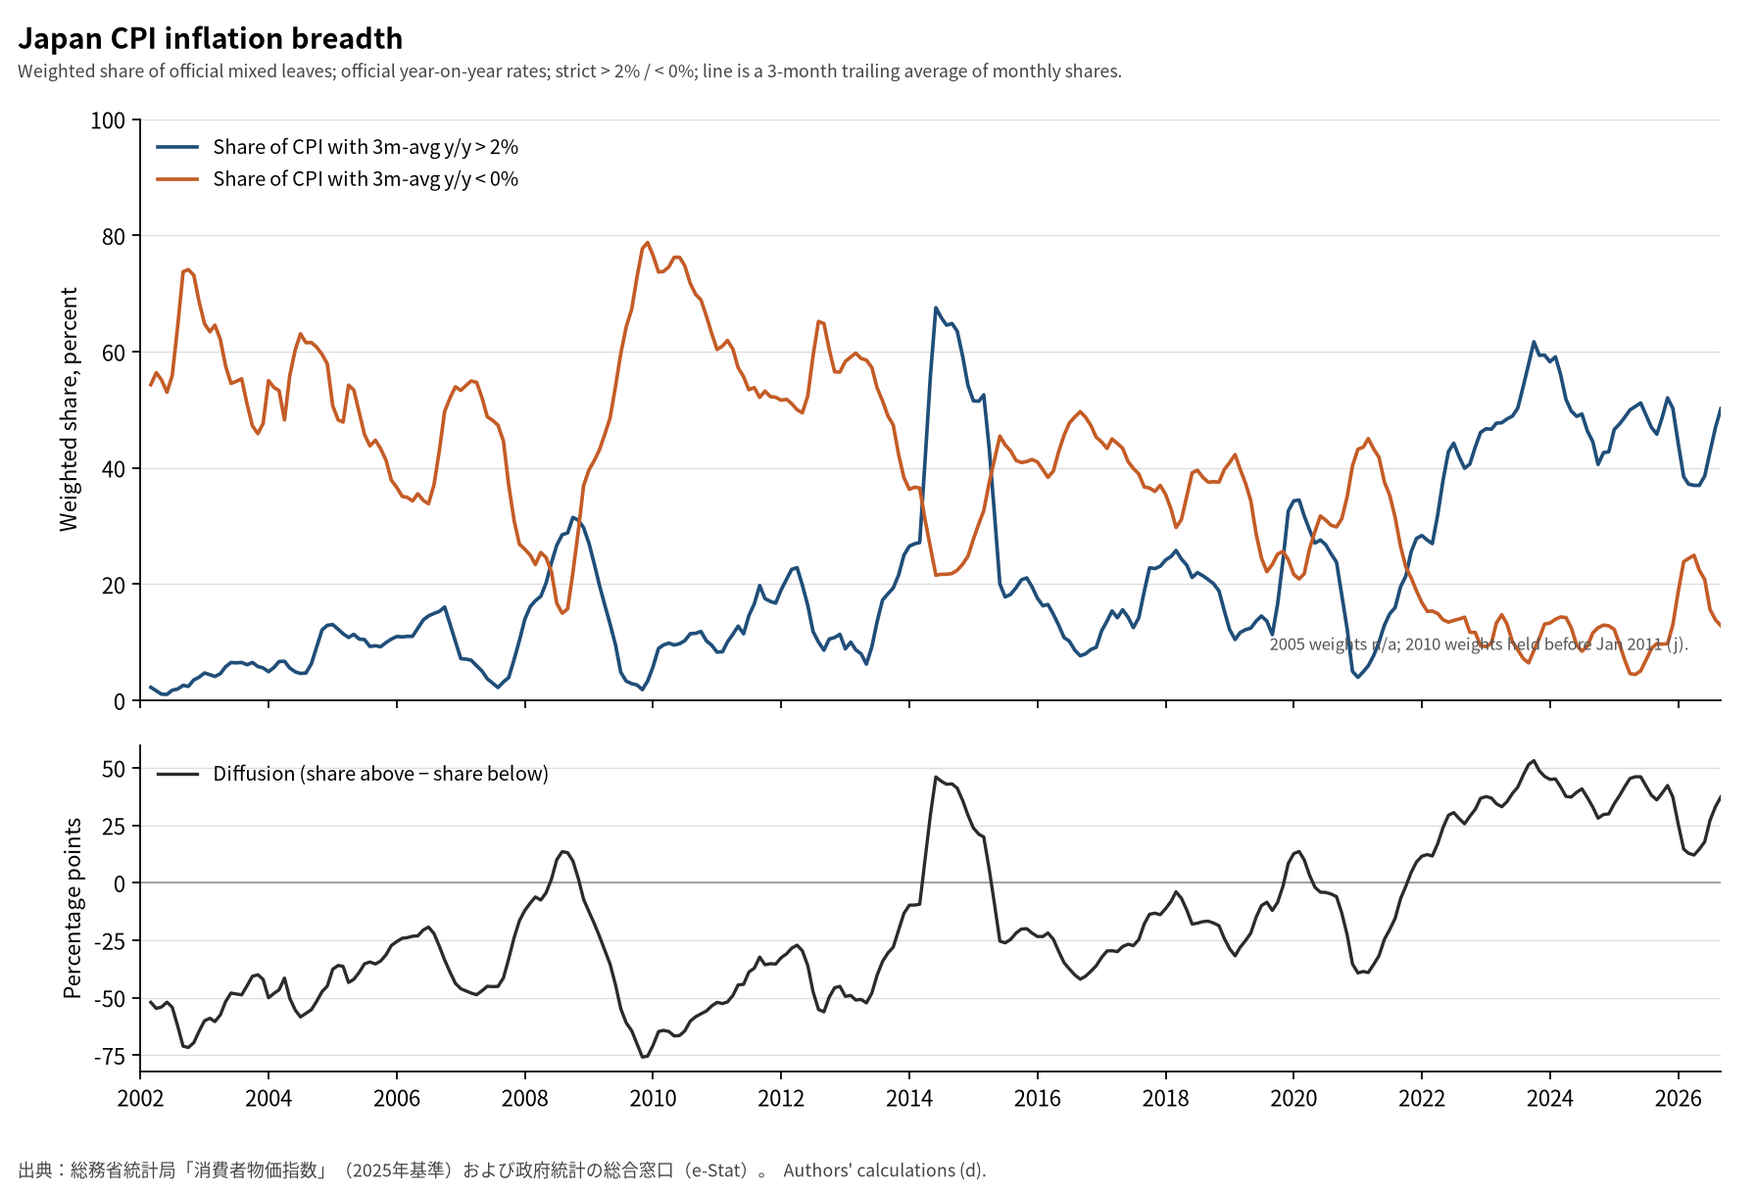
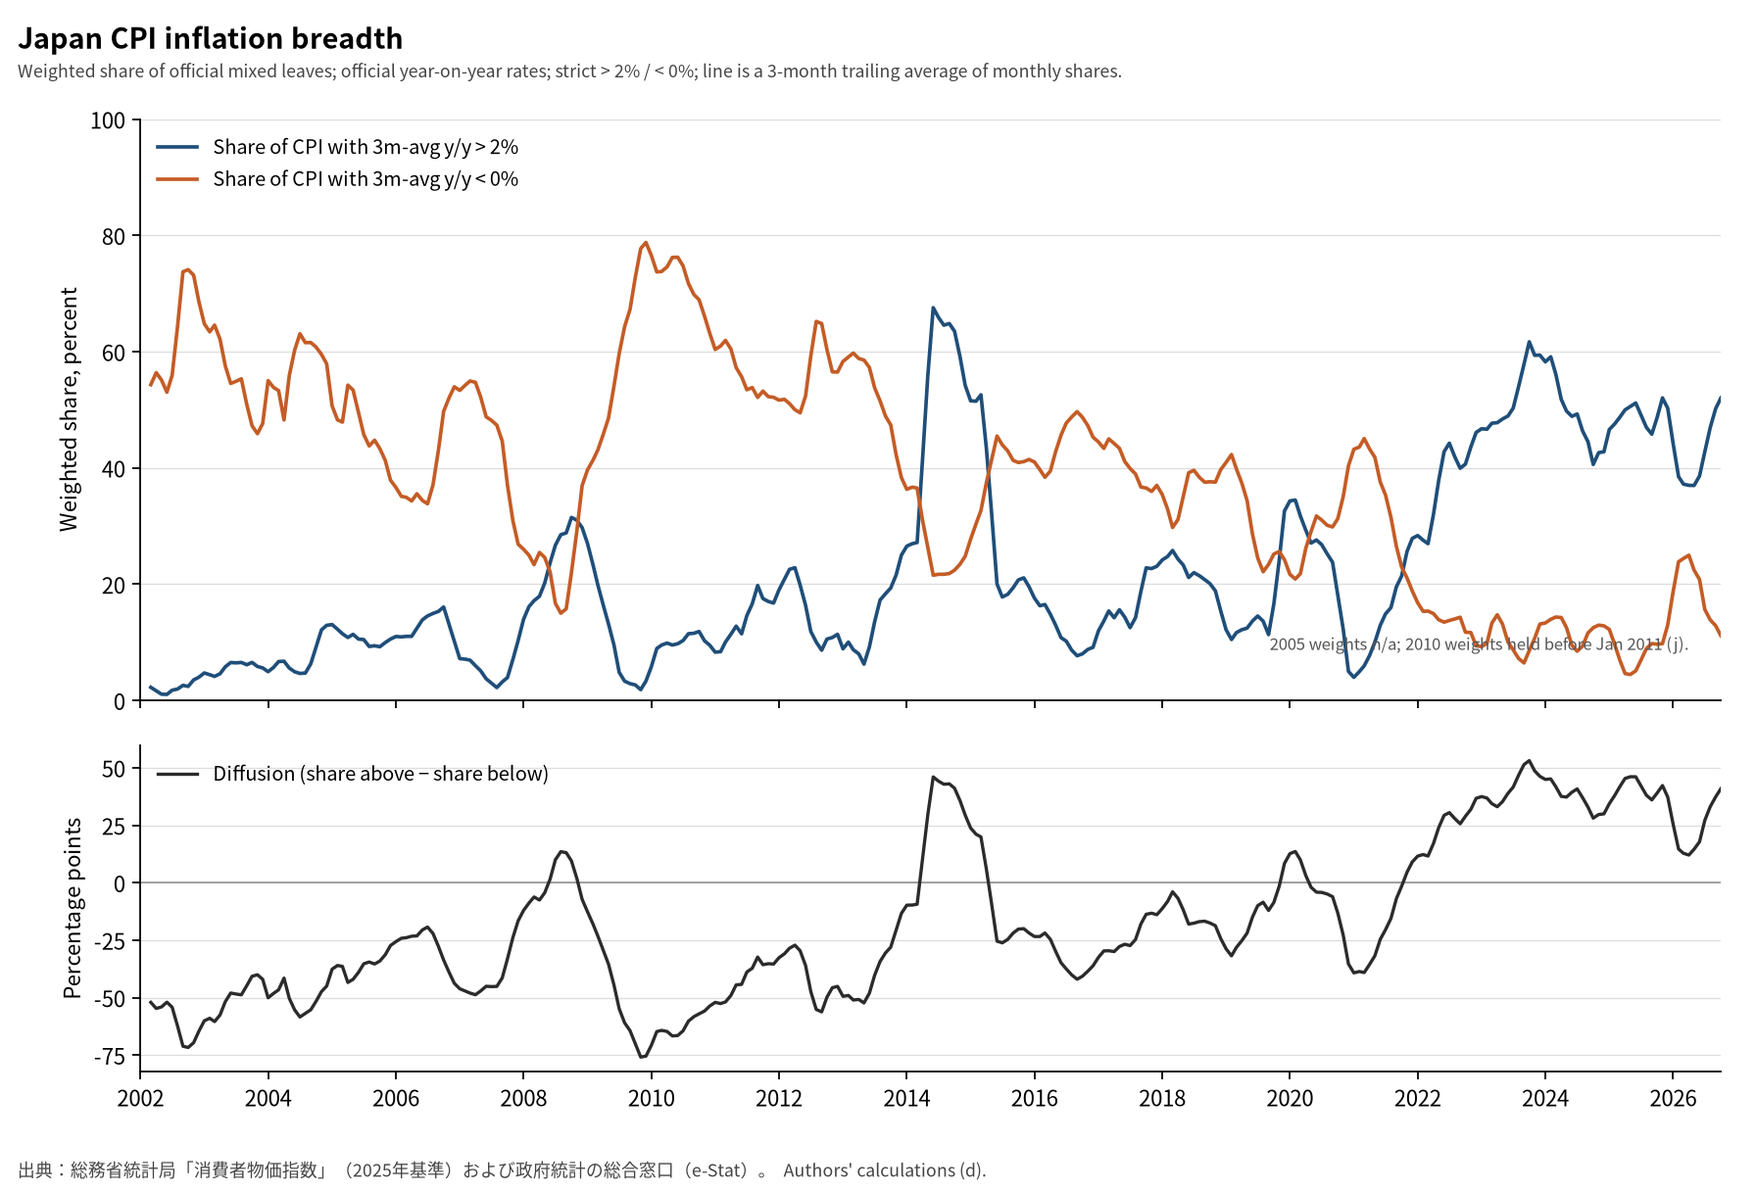
Refresh inflation breadth for the UK, Japan, euro area, and the Fed comparison. (#64)
Replace the supplied staff pages and breadth files and leave every other path unchanged.

diff --git a/staff-ecb/index.html b/staff-ecb/index.html
@@ -437,20 +437,20 @@ footer{margin:10px 0 48px}
     <div class="br-grid">
     <div class="card br-card" id="breadth-ea">
       <h3>Euro area HICP: inflation breadth</h3>
-      <div class="sub">Share of the basket with 12-month inflation above / below threshold · latest 2026-09</div>
-      <div class="br-kpis"><div class="br-kpi"><span class="l">Share above 3%</span><span class="v">42.1% <span class="q d">(d)</span></span></div><div class="br-kpi"><span class="l">Share below 1%</span><span class="v">27.7% <span class="q d">(d)</span></span></div><div class="br-kpi"><span class="l">Diffusion</span><span class="v">+14.4 pp <span class="q d">(d)</span></span><span class="s">above − below</span></div><div class="br-kpi"><span class="l">z vs 2011–19</span><span class="v">+1.72 <span class="q d">(d)</span></span><span class="s">diffusion</span></div><div class="br-kpi"><span class="l">Components</span><span class="v">275 / 275</span><span class="s">used / target</span></div><div class="br-kpi"><span class="l">Data date</span><span class="v">2026-09</span><span class="s">monthly</span></div></div>
+      <div class="sub">Share of the basket with 12-month inflation above / below threshold · latest 2026-10</div>
+      <div class="br-kpis"><div class="br-kpi"><span class="l">Share above 3%</span><span class="v">42.5% <span class="q d">(d)</span></span></div><div class="br-kpi"><span class="l">Share below 1%</span><span class="v">31.3% <span class="q d">(d)</span></span></div><div class="br-kpi"><span class="l">Diffusion</span><span class="v">+11.2 pp <span class="q d">(d)</span></span><span class="s">above − below</span></div><div class="br-kpi"><span class="l">z vs 2011–19</span><span class="v">+1.58 <span class="q d">(d)</span></span><span class="s">diffusion</span></div><div class="br-kpi"><span class="l">Components</span><span class="v">275 / 275</span><span class="s">used / target</span></div><div class="br-kpi"><span class="l">Data date</span><span class="v">2026-10</span><span class="s">monthly</span></div></div>
       <div class="br-body">
         <div class="br-media"><a href="breadth/ea_hicp_inflation_breadth.png" target="_blank" rel="noopener"><img class="br-img" src="breadth/ea_hicp_inflation_breadth.png" alt="Euro area HICP inflation breadth: share of components above and below threshold, and diffusion" width="1792" height="1216" loading="lazy"></a></div>
         <div class="br-side">
           <div class="br-text"><p><b>Thresholds:</b> strict &gt; 3% / &lt; 1%.</p>
-<p><b>Breaks and sample notes:</b> Unspliced classification breaks in December 2017 (ECOICOP 4-digit to 5-digit) and January 2026 (ECOICOP version 2). October 2026 is a flash estimate with no component data, so the latest complete month is September 2026. Games of chance (CP09470) are dropped until an official year-on-year rate exists.</p>
+<p><b>Breaks and sample notes:</b> Unspliced classification breaks in December 2017 (ECOICOP 4-digit to 5-digit) and January 2026 (ECOICOP version 2). Games of chance (CP09470) are dropped until an official year-on-year rate exists.</p>
 <p><b>Method (d):</b> Weighted share of official finest HICP leaves (changing-composition euro area, NSA official RCH_A rates and official weights), renormalised each month over leaves with a published rate and a positive weight. Classification vintages are not spliced.</p>
 <p>Shares, diffusion and the z-score are authors' calculations (d) from official linked NSA indexes and official basket weights (V), renormalised each period over items with a published rate and a strictly positive weight. Thresholds are strict (<code>&gt;</code> / <code>&lt;</code>). This is a research prototype, not a sealed nowcast and not a trade input.</p></div>
           <div class="br-credit"><p>Source acknowledgement: Source: Eurostat, datasets PRC_HICP_MANR, PRC_HICP_MIDX, PRC_HICP_INW, PRC_HICP_MINR and PRC_HICP_IW (geo=EA, changing-composition euro area), the HICP ESMS (<code>prc_hicp_esms</code>), the information note <code>Info_note_HICP_COICOP18_20260128</code>, and “Questions &amp; Answers on the improvements in the Harmonised Index of Consumer Prices (HICP) effective January 2026” (25 February 2026, updated 3 March 2026).</p>
 <p>Required adapted-work statement:</p>
 <p>Adapted from Eurostat, datasets PRC_HICP_MANR, PRC_HICP_MIDX, PRC_HICP_INW, PRC_HICP_MINR and PRC_HICP_IW (geo=EA), and from the HICP ESMS, the January 2026 ECOICOP ver. 2 information note and the Questions &amp; Answers on the improvements in the HICP (25 February 2026, updated 3 March 2026). This is not an official Eurostat product. Eurostat is not responsible or liable for any consequences arising from the reuse, or for any conclusions drawn from these adapted files.</p>
 <p>Licence: Commission Decision 2011/833/EU. Copyright notice: <a href="https://ec.europa.eu/eurostat/web/main/help/copyright-notice" target="_blank" rel="noopener">https://ec.europa.eu/eurostat/web/main/help/copyright-notice</a></p>
-<p>Verified against: <code>/docs/LICENCE.md</code> in snapshot <code>20261113T191620Z_breadth_ea</code>.</p></div>
+<p>Verified against: <code>/docs/LICENCE.md</code> in snapshot <code>20261123T075245Z_breadth_ea</code>.</p></div>
         </div>
       </div>
     </div>
@@ -459,7 +459,7 @@ footer{margin:10px 0 48px}
       <h4>⚠ Data and sources – caveats (inflation breadth)</h4>
       <p>This is a research prototype. It is not sealed and is not a trade input. Official indexes and weights are <b>V</b>. Shares, diffusion and z-scores are authors' calculations <b>(d)</b>. Judgement is marked <b>(j)</b>. Unverified items are <b>U</b>. Missing official values are <b>n/a</b>. Nothing here is a recommendation.</p>
 <p>Thresholds are strict greater-than / less-than. Weights are renormalised each period over items with a published rate and a strictly positive weight. The z-score is the latest diffusion minus the 2011–2019 mean, divided by the 2011–2019 standard deviation (d).</p>
-<p>Euro-area series notes: three unspliced classification vintages — ECOICOP 4-digit through November 2017, ECOICOP 5-digit through December 2025, and ECOICOP version 2 from January 2026. The dashed lines on the chart mark December 2017 and January 2026. October 2026 is flash-only (no component data); the latest complete month is September 2026. Games of chance (CP09470, 2026 weight 12.82) have no official year-on-year rate in this snapshot and are dropped (n used / n target 275 / 275 after that drop). geo=EA is the changing-composition euro area.</p>
+<p>Euro-area series notes: three unspliced classification vintages — ECOICOP 4-digit through November 2017, ECOICOP 5-digit through December 2025, and ECOICOP version 2 from January 2026. The dashed lines on the chart mark December 2017 and January 2026. Games of chance (CP09470, 2026 weight 12.82) have no official year-on-year rate in this snapshot and are dropped (n used / n target 275 / 275 after that drop). geo=EA is the changing-composition euro area.</p>
 <p>Licence: Commission Decision 2011/833/EU, credit as in <a href="breadth/credit.md" target="_blank" rel="noopener"><code>credit.md</code></a>, verified against the snapshot licence file.</p>
       <div class="br-files">Latest values: <a href="breadth/latest.csv" target="_blank" rel="noopener">latest.csv</a> · <a href="breadth/latest.json" target="_blank" rel="noopener">latest.json</a></div>
     </div>

diff --git a/staff-boe/index.html b/staff-boe/index.html
@@ -318,8 +318,8 @@ footer{margin:10px 0 48px}
     <div class="br-grid">
     <div class="card br-card" id="breadth-uk">
       <h3>United Kingdom CPI: inflation breadth</h3>
-      <div class="sub">Share of the basket with 12-month inflation above / below threshold · latest 2026-09</div>
-      <div class="br-kpis"><div class="br-kpi"><span class="l">Share above 3%</span><span class="v">53.2% <span class="q d">(d)</span></span></div><div class="br-kpi"><span class="l">Share below 1%</span><span class="v">28.1% <span class="q d">(d)</span></span></div><div class="br-kpi"><span class="l">Diffusion</span><span class="v">+25.1 pp <span class="q d">(d)</span></span><span class="s">above − below</span></div><div class="br-kpi"><span class="l">z vs 2011–19</span><span class="v">+0.93 <span class="q d">(d)</span></span><span class="s">diffusion</span></div><div class="br-kpi"><span class="l">Components</span><span class="v">86 / 86</span><span class="s">used / target</span></div><div class="br-kpi"><span class="l">Data date</span><span class="v">2026-09</span><span class="s">monthly</span></div></div>
+      <div class="sub">Share of the basket with 12-month inflation above / below threshold · latest 2026-10</div>
+      <div class="br-kpis"><div class="br-kpi"><span class="l">Share above 3%</span><span class="v">54.6% <span class="q d">(d)</span></span></div><div class="br-kpi"><span class="l">Share below 1%</span><span class="v">35.5% <span class="q d">(d)</span></span></div><div class="br-kpi"><span class="l">Diffusion</span><span class="v">+19.2 pp <span class="q d">(d)</span></span><span class="s">above − below</span></div><div class="br-kpi"><span class="l">z vs 2011–19</span><span class="v">+0.72 <span class="q d">(d)</span></span><span class="s">diffusion</span></div><div class="br-kpi"><span class="l">Components</span><span class="v">86 / 86</span><span class="s">used / target</span></div><div class="br-kpi"><span class="l">Data date</span><span class="v">2026-10</span><span class="s">monthly</span></div></div>
       <div class="br-body">
         <div class="br-media"><a href="breadth/uk_cpi_inflation_breadth.png" target="_blank" rel="noopener"><img class="br-img" src="breadth/uk_cpi_inflation_breadth.png" alt="United Kingdom CPI inflation breadth: share of components above and below threshold, and diffusion" width="1792" height="1216" loading="lazy"></a></div>
         <div class="br-side">
@@ -330,7 +330,7 @@ footer{margin:10px 0 48px}
           <div class="br-credit"><p>Contains public sector information licensed under the Open Government Licence v3.0. Source: Office for National Statistics.</p>
 <p>Office for National Statistics, Consumer price inflation, detailed reference tables (September 2026 release, published 21 October 2026); Consumer price inflation, updating weights: Annex A, Tables W1 to W3 (2026 edition); Consumer Prices Index (RPI) and Retail Prices Index (RPI), updating weights (2015), Annex D, table W1.</p>
 <p>Licence: Open Government Licence v3.0, <a href="https://www.nationalarchives.gov.uk/doc/open-government-licence/version/3/" target="_blank" rel="noopener">https://www.nationalarchives.gov.uk/doc/open-government-licence/version/3/</a></p>
-<p>Verified against: <code>/docs/LICENCE.md</code> in snapshot <code>20261113T182124Z_breadth_uk</code>. Table 38 is an analytical series, not accredited official statistics.</p></div>
+<p>Verified against: <code>/docs/LICENCE.md</code> in snapshot <code>20261123T075040Z_breadth_uk</code>. Table 38 is an analytical series, not accredited official statistics.</p></div>
         </div>
       </div>
     </div>

diff --git a/staff-boj/index.html b/staff-boj/index.html
@@ -318,8 +318,8 @@ footer{margin:10px 0 48px}
     <div class="br-grid">
     <div class="card br-card" id="breadth-jp">
       <h3>Japan CPI: inflation breadth</h3>
-      <div class="sub">Share of the basket with 12-month inflation above / below threshold · latest 2026-09</div>
-      <div class="br-kpis"><div class="br-kpi"><span class="l">Share above 2%</span><span class="v">50.2% <span class="q d">(d)</span></span></div><div class="br-kpi"><span class="l">Share below 0%</span><span class="v">12.9% <span class="q d">(d)</span></span></div><div class="br-kpi"><span class="l">Diffusion</span><span class="v">+37.3 pp <span class="q d">(d)</span></span><span class="s">above − below</span></div><div class="br-kpi"><span class="l">z vs 2011–19</span><span class="v">+2.47 <span class="q d">(d)</span></span><span class="s">diffusion</span></div><div class="br-kpi"><span class="l">Components</span><span class="v">104 / 104</span><span class="s">used / target</span></div><div class="br-kpi"><span class="l">Data date</span><span class="v">2026-09</span><span class="s">monthly</span></div></div>
+      <div class="sub">Share of the basket with 12-month inflation above / below threshold · latest 2026-10</div>
+      <div class="br-kpis"><div class="br-kpi"><span class="l">Share above 2%</span><span class="v">52.0% <span class="q d">(d)</span></span></div><div class="br-kpi"><span class="l">Share below 0%</span><span class="v">11.1% <span class="q d">(d)</span></span></div><div class="br-kpi"><span class="l">Diffusion</span><span class="v">+40.9 pp <span class="q d">(d)</span></span><span class="s">above − below</span></div><div class="br-kpi"><span class="l">z vs 2011–19</span><span class="v">+2.62 <span class="q d">(d)</span></span><span class="s">diffusion</span></div><div class="br-kpi"><span class="l">Components</span><span class="v">104 / 104</span><span class="s">used / target</span></div><div class="br-kpi"><span class="l">Data date</span><span class="v">2026-10</span><span class="s">monthly</span></div></div>
       <div class="br-body">
         <div class="br-media"><a href="breadth/jp_cpi_inflation_breadth.png" target="_blank" rel="noopener"><img class="br-img" src="breadth/jp_cpi_inflation_breadth.png" alt="Japan CPI inflation breadth: share of components above and below threshold, and diffusion" width="1792" height="1216" loading="lazy"></a></div>
         <div class="br-side">
@@ -331,7 +331,7 @@ footer{margin:10px 0 48px}
 <p>Official numerical data and simple tables from the Statistics Bureau of Japan and from e-Stat are not subject to copyright and may be used freely. Other content on e-Stat may be used under the e-Stat Terms of Use, which are based on the Government of Japan Standard Terms of Use (Version 2.0) and are compatible with Creative Commons Attribution 4.0 International (CC BY 4.0), on the conditions in those terms (source citation; edited work must say it was edited and must not look official).</p>
 <p>This package is a reshape of official cells plus authors' calculations (d). It is edited work and is not an official Statistics Bureau or e-Stat product.</p>
 <p>e-Stat Terms of Use (English): <a href="https://www.e-stat.go.jp/en/terms-of-use" target="_blank" rel="noopener">https://www.e-stat.go.jp/en/terms-of-use</a> (accessed 13 November 2026, as recorded in the snapshot).</p>
-<p>Verified against: <code>/docs/LICENCE.md</code> in snapshot <code>20261113T184418Z_breadth_jp</code>.</p></div>
+<p>Verified against: <code>/docs/LICENCE.md</code> in snapshot <code>20261123T075113Z_breadth_jp</code>.</p></div>
         </div>
       </div>
     </div>

diff --git a/staff-ecb/breadth/caption.md b/staff-ecb/breadth/caption.md
@@ -1,13 +1,13 @@
 # Inflation breadth — EA (v1, public package)
 
-- **Data date:** 2026-09 (monthly)
-- **Share above threshold:** 42.1% (d, unrounded 42.071299)
-- **Share below threshold:** 27.7% (d, unrounded 27.681819)
-- **Diffusion (above − below):** +14.4 pp (d)
-- **Z-score of diffusion vs 2011–2019:** +1.72 (d)
+- **Data date:** 2026-10 (monthly)
+- **Share above threshold:** 42.5% (d, unrounded 42.535280)
+- **Share below threshold:** 31.3% (d, unrounded 31.326802)
+- **Diffusion (above − below):** +11.2 pp (d)
+- **Z-score of diffusion vs 2011–2019:** +1.58 (d)
 - **Thresholds:** strict > 3% / < 1%
 - **Component count (n used / n target):** 275 / 275
-- **Breaks / sample notes:** Unspliced classification breaks in December 2017 (ECOICOP 4-digit to 5-digit) and January 2026 (ECOICOP version 2). October 2026 is a flash estimate with no component data, so the latest complete month is September 2026. Games of chance (CP09470) are dropped until an official year-on-year rate exists.
+- **Breaks / sample notes:** Unspliced classification breaks in December 2017 (ECOICOP 4-digit to 5-digit) and January 2026 (ECOICOP version 2). Games of chance (CP09470) are dropped until an official year-on-year rate exists.
 
 **Method (d):** Weighted share of official finest HICP leaves (changing-composition euro area, NSA official RCH_A rates and official weights), renormalised each month over leaves with a published rate and a positive weight. Classification vintages are not spliced.
 

diff --git a/staff-ecb/breadth/vorbehalte.md b/staff-ecb/breadth/vorbehalte.md
@@ -4,6 +4,6 @@ This is a research prototype. It is not sealed and is not a trade input. Officia
 
 Thresholds are strict greater-than / less-than. Weights are renormalised each period over items with a published rate and a strictly positive weight. The z-score is the latest diffusion minus the 2011–2019 mean, divided by the 2011–2019 standard deviation (d).
 
-Euro-area series notes: three unspliced classification vintages — ECOICOP 4-digit through November 2017, ECOICOP 5-digit through December 2025, and ECOICOP version 2 from January 2026. The dashed lines on the chart mark December 2017 and January 2026. October 2026 is flash-only (no component data); the latest complete month is September 2026. Games of chance (CP09470, 2026 weight 12.82) have no official year-on-year rate in this snapshot and are dropped (n used / n target 275 / 275 after that drop). geo=EA is the changing-composition euro area.
+Euro-area series notes: three unspliced classification vintages — ECOICOP 4-digit through November 2017, ECOICOP 5-digit through December 2025, and ECOICOP version 2 from January 2026. The dashed lines on the chart mark December 2017 and January 2026. Games of chance (CP09470, 2026 weight 12.82) have no official year-on-year rate in this snapshot and are dropped (n used / n target 275 / 275 after that drop). geo=EA is the changing-composition euro area.
 
 Licence: Commission Decision 2011/833/EU, credit as in `credit.md`, verified against the snapshot licence file.

diff --git a/staff-boj/breadth/caption.md b/staff-boj/breadth/caption.md
@@ -1,10 +1,10 @@
 # Inflation breadth — JP (v1, public package)
 
-- **Data date:** 2026-09 (monthly)
-- **Share above threshold:** 50.2% (d, unrounded 50.188171)
-- **Share below threshold:** 12.9% (d, unrounded 12.858208)
-- **Diffusion (above − below):** +37.3 pp (d)
-- **Z-score of diffusion vs 2011–2019:** +2.47 (d)
+- **Data date:** 2026-10 (monthly)
+- **Share above threshold:** 52.0% (d, unrounded 52.032259)
+- **Share below threshold:** 11.1% (d, unrounded 11.130657)
+- **Diffusion (above − below):** +40.9 pp (d)
+- **Z-score of diffusion vs 2011–2019:** +2.62 (d)
 - **Thresholds:** strict > 2% / < 0%, 3-month trailing average of monthly shares
 - **Component count (n used / n target):** 104 / 104
 - **Breaks / sample notes:** The plotted shares are a 3-month trailing average of monthly shares. Official 2005 weights are n/a; 2010 weights are held through December 2010 (j). No concordance between classification vintages was invented. Fresh food and energy are included; memorandum items are excluded.

diff --git a/staff-boe/breadth/caption.md b/staff-boe/breadth/caption.md
@@ -1,10 +1,10 @@
 # Inflation breadth — UK (v1, public package)
 
-- **Data date:** 2026-09 (monthly)
-- **Share above threshold:** 53.2% (d, unrounded 53.233700)
-- **Share below threshold:** 28.1% (d, unrounded 28.134930)
-- **Diffusion (above − below):** +25.1 pp (d)
-- **Z-score of diffusion vs 2011–2019:** +0.93 (d)
+- **Data date:** 2026-10 (monthly)
+- **Share above threshold:** 54.6% (d, unrounded 54.608200)
+- **Share below threshold:** 35.5% (d, unrounded 35.453480)
+- **Diffusion (above − below):** +19.2 pp (d)
+- **Z-score of diffusion vs 2011–2019:** +0.72 (d)
 - **Thresholds:** strict > 3% / < 1%
 - **Component count (n used / n target):** 86 / 86
 - **Breaks / sample notes:** Class-level CPI weights from 2005. No classification splice. Table 38 is analytical, not accredited official statistics.

diff --git a/staff-boe/breadth/credit.md b/staff-boe/breadth/credit.md
@@ -6,4 +6,4 @@ Office for National Statistics, Consumer price inflation, detailed reference tab
 
 Licence: Open Government Licence v3.0, https://www.nationalarchives.gov.uk/doc/open-government-licence/version/3/
 
-Verified against: `/docs/LICENCE.md` in snapshot `20261113T182124Z_breadth_uk`. Table 38 is an analytical series, not accredited official statistics.
+Verified against: `/docs/LICENCE.md` in snapshot `20261123T075040Z_breadth_uk`. Table 38 is an analytical series, not accredited official statistics.

diff --git a/staff-boj/breadth/credit.md b/staff-boj/breadth/credit.md
@@ -8,4 +8,4 @@ This package is a reshape of official cells plus authors' calculations (d). It i
 
 e-Stat Terms of Use (English): https://www.e-stat.go.jp/en/terms-of-use (accessed 13 November 2026, as recorded in the snapshot).
 
-Verified against: `/docs/LICENCE.md` in snapshot `20261113T184418Z_breadth_jp`.
+Verified against: `/docs/LICENCE.md` in snapshot `20261123T075113Z_breadth_jp`.

diff --git a/staff-ecb/breadth/credit.md b/staff-ecb/breadth/credit.md
@@ -8,4 +8,4 @@ Adapted from Eurostat, datasets PRC_HICP_MANR, PRC_HICP_MIDX, PRC_HICP_INW, PRC_
 
 Licence: Commission Decision 2011/833/EU. Copyright notice: https://ec.europa.eu/eurostat/web/main/help/copyright-notice
 
-Verified against: `/docs/LICENCE.md` in snapshot `20261113T191620Z_breadth_ea`.
+Verified against: `/docs/LICENCE.md` in snapshot `20261123T075245Z_breadth_ea`.
